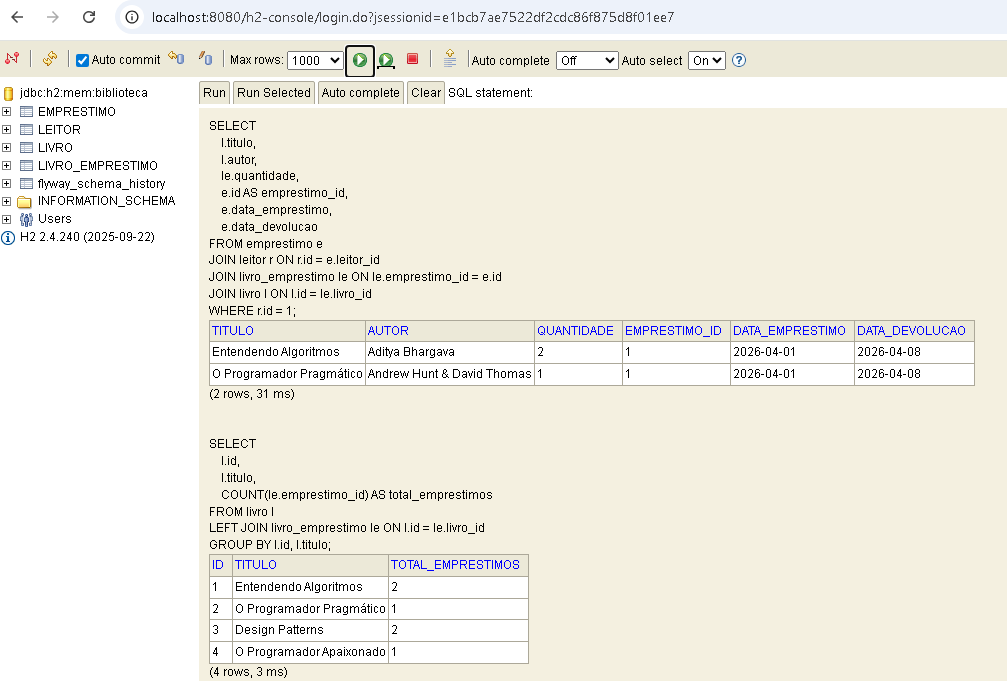
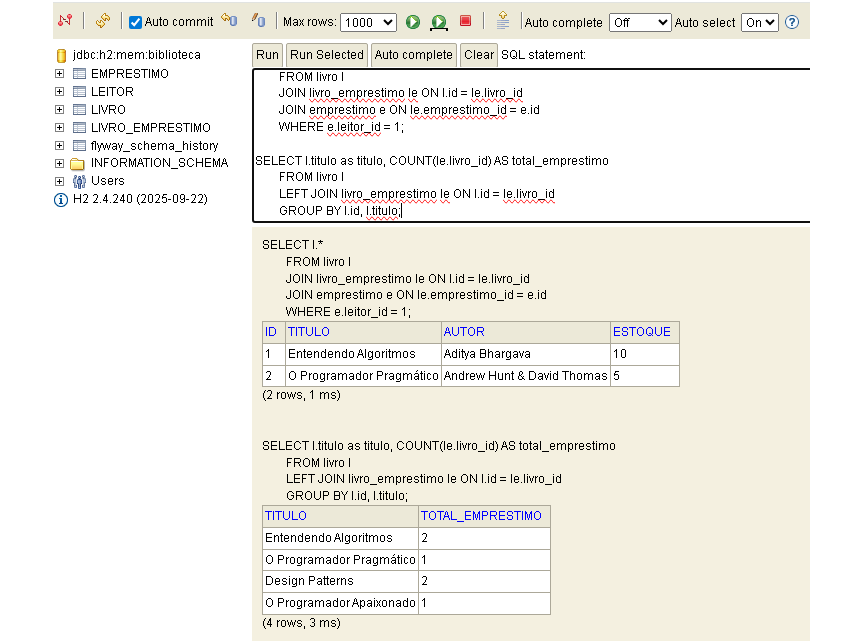
feat: correção nas classes do pacote model e EmprestimoRepository

diff --git a/alunos/abraao_junior/tarefa05/biblioteca-api/src/main/java/com/example/pedido_api/repository/EmprestimoRepository.java b/alunos/abraao_junior/tarefa05/biblioteca-api/src/main/java/com/example/pedido_api/repository/EmprestimoRepository.java
@@ -2,9 +2,26 @@ package com.example.pedido_api.repository;
 
 import com.example.pedido_api.model.Emprestimo;
 import org.springframework.data.jpa.repository.JpaRepository;
+import org.springframework.data.jpa.repository.Query;
+import org.springframework.data.repository.query.Param;
 
 import java.util.List;
 
 public interface EmprestimoRepository extends JpaRepository<Emprestimo, Long> {
-    List<Emprestimo> findByLeitorId(Long leitorId);
+    @Query(value = """
+        SELECT l.*
+        FROM livro l
+        JOIN livro_emprestimo le ON l.id = le.livro_id
+        JOIN emprestimo e ON le.emprestimo_id = e.id
+        WHERE e.leitor_id = :leitorId
+    """, nativeQuery = true)
+    List<Emprestimo> findByLeitorId(@Param("leitorId") Long leitorId);
+
+    @Query(value = """
+        SELECT l.titulo as titulo, COUNT(le.livro_id) AS total_emprestimo
+        FROM livro l
+        LEFT JOIN livro_emprestimo le ON l.id = le.livro_id
+        GROUP BY l.id, l.titulo
+    """, nativeQuery = true)
+    List<Object[]> contarEmprestimosPorLivro();
 }

diff --git a/alunos/abraao_junior/tarefa05/biblioteca-api/src/main/java/com/example/pedido_api/model/Emprestimo.java b/alunos/abraao_junior/tarefa05/biblioteca-api/src/main/java/com/example/pedido_api/model/Emprestimo.java
@@ -1,10 +1,12 @@
 package com.example.pedido_api.model;
 
-import com.example.pedido_api.model.Leitor;
 import jakarta.persistence.*;
+import jakarta.validation.constraints.NotBlank;
+import jakarta.validation.constraints.NotNull;
+import lombok.AllArgsConstructor;
 import lombok.Getter;
+import lombok.NoArgsConstructor;
 import lombok.Setter;
-import org.springframework.data.annotation.Id;
 
 import java.time.LocalDate;
 import java.util.List;
@@ -12,21 +14,24 @@ import java.util.List;
 @Entity
 @Getter
 @Setter
+@AllArgsConstructor
+@NoArgsConstructor
 public class Emprestimo {
 
     @jakarta.persistence.Id
-    @Id
     @GeneratedValue(strategy = GenerationType.IDENTITY)
     private Long id;
 
+    @NotNull
     private LocalDate dataEmprestimo;
 
+    @NotNull
     private LocalDate dataDevolucao;
 
     @ManyToOne
     @JoinColumn(name = "leitor_id")
     private Leitor leitor;
 
-    @OneToMany(mappedBy = "emprestimo", cascade = CascadeType.ALL)
+    @OneToMany(mappedBy = "emprestimo")
     private List<LivroEmprestimo> livros;
 }

diff --git a/alunos/abraao_junior/tarefa05/biblioteca-api/src/main/java/com/example/pedido_api/model/Leitor.java b/alunos/abraao_junior/tarefa05/biblioteca-api/src/main/java/com/example/pedido_api/model/Leitor.java
@@ -3,20 +3,36 @@ package com.example.pedido_api.model;
 import jakarta.persistence.Entity;
 import jakarta.persistence.GeneratedValue;
 import jakarta.persistence.GenerationType;
+import jakarta.persistence.OneToMany;
+import jakarta.validation.constraints.Email;
+import jakarta.validation.constraints.NotBlank;
+import jakarta.validation.constraints.Size;
+import lombok.AllArgsConstructor;
 import lombok.Getter;
+import lombok.NoArgsConstructor;
 import lombok.Setter;
-import org.springframework.data.annotation.Id;
+
+import java.util.List;
 
 @Entity
 @Getter
 @Setter
+@AllArgsConstructor
+@NoArgsConstructor
 public class Leitor {
 
     @jakarta.persistence.Id
-    @Id
     @GeneratedValue(strategy = GenerationType.IDENTITY)
     private Long id;
 
+    @NotBlank
+    @Size(min = 3, max = 100)
     private String nome;
+
+    @Email
+    @NotBlank
     private String email;
+
+    @OneToMany(mappedBy = "leitor")
+    private List<Emprestimo> emprestimos;
 }

diff --git a/alunos/abraao_junior/tarefa05/biblioteca-api/src/main/java/com/example/pedido_api/model/Livro.java b/alunos/abraao_junior/tarefa05/biblioteca-api/src/main/java/com/example/pedido_api/model/Livro.java
@@ -4,11 +4,13 @@ import jakarta.persistence.Entity;
 import jakarta.persistence.GeneratedValue;
 import jakarta.persistence.GenerationType;
 import jakarta.persistence.OneToMany;
+import jakarta.validation.constraints.NotBlank;
+import jakarta.validation.constraints.Positive;
+import jakarta.validation.constraints.Size;
 import lombok.AllArgsConstructor;
 import lombok.Getter;
 import lombok.NoArgsConstructor;
 import lombok.Setter;
-import org.springframework.data.annotation.Id;
 
 import java.util.List;
 
@@ -20,12 +22,18 @@ import java.util.List;
 public class Livro {
 
     @jakarta.persistence.Id
-    @Id
     @GeneratedValue(strategy = GenerationType.IDENTITY)
     private Long id;
 
+    @NotBlank
+    @Size(min = 2, max = 150)
     private String titulo;
+
+    @NotBlank
+    @Size(min = 2, max = 100)
     private String autor;
+
+    @Positive
     private Integer estoque;
 
     @OneToMany(mappedBy = "livro")

diff --git a/alunos/abraao_junior/tarefa05/biblioteca-api/src/main/java/com/example/pedido_api/service/LivroService.java b/alunos/abraao_junior/tarefa05/biblioteca-api/src/main/java/com/example/pedido_api/service/LivroService.java
@@ -25,5 +25,6 @@ public class LivroService {
             throw new RuntimeException("Estoque insuficiente");
         }
         livro.setEstoque(livro.getEstoque() - quantidade);
+        repository.save(livro);
     }
 }
